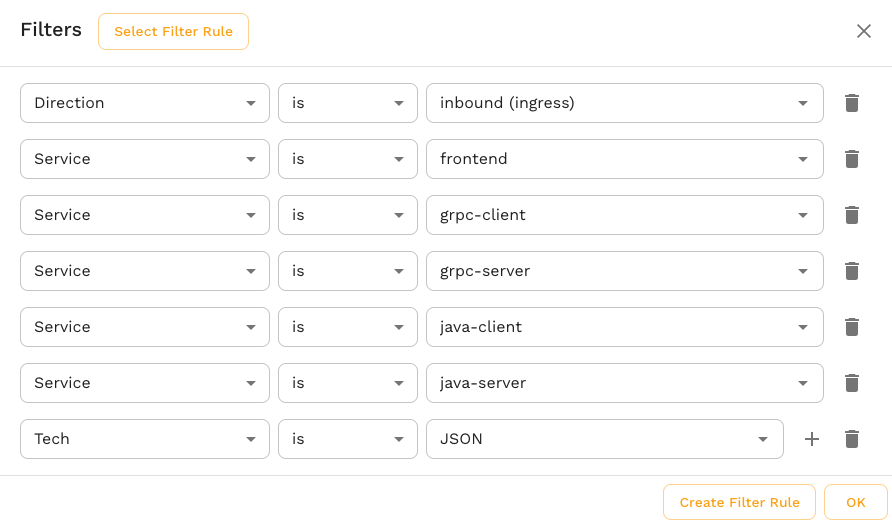
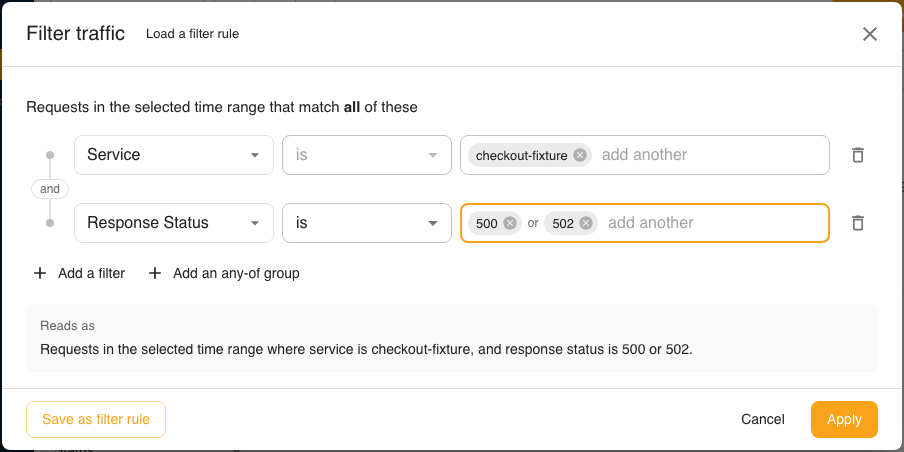
[S-14069] Describe the new traffic filter editor (#876)
The Traffic View guide gets a section on the filter editor: rows with
several values, the field picker, how rows combine, any-of groups, the
flat editor for transform chains and DLP rules, and the readback. The
filter rule guide points at Save as filter rule, and both screenshots
show the new dialog.

diff --git a/docs/guides/capture/filter.md b/docs/guides/capture/filter.md
@@ -43,7 +43,7 @@ As you use cases get more advanced you can explore more complex filters, but the
 
 Editing simple filters can be accomplished in different three ways:
 
-1. *Filter selector dialog* - To initiate this workflow click on the Search bar at the top. From there, you can add and remove filter criteria with autocomplete.
+1. *Filter editor* - Click the **Filters** bar at the top to open the editor. Click a single filter in the bar to open the editor on that filter. See [The filter editor](#filter-editor) below.
 
 ![ui_filters](./filter/filters.png)
 
@@ -55,15 +55,29 @@ Editing simple filters can be accomplished in different three ways:
 
 ![shortcuts](./filter/shortcuts.png)
 
+## The filter editor <a href="#filter-editor" id="filter-editor"></a>
+
+The filter editor reads like a sentence: "Requests in the selected time range that match all of these", followed by one row per filter. The same editor is used everywhere you pick a subset of traffic, including snapshots, reports, filter rules, transform chains and test configs.
+
+Each row is one field, a comparison and one or more values. Add a value by typing it and pressing Enter, or by picking a suggestion. Several values in one row read as "Service is orders or payments": "is" matches any of the values, and "is not" or "doesn't contain" exclude all of them. For "contains", click the word between two values to switch between "or" and "and".
+
+Click **Add a filter** to pick a field. The field list is searchable and grouped by where the value comes from: where the request ran, the request, the response, identity, replay and testing, and database. Each field offers only the comparisons it supports. For example, Service can only be matched with "is", and Full Text can't be negated.
+
+The word on the left between two rows says how they combine. On the Traffic page every row has to match, because the page also applies its time range. To match "this or that", click **Add an any-of group** and add the alternatives to the group, for example "Response Status is 500" or "Duration is more than 2000 ms". A group has its own all or any choice. Where nothing else applies, such as a filter rule, a test config scope or a chaos rule scope, the top line also lets you choose between all and any, and clicking the word between two rows switches it.
+
+Transform chains, runtime variables and DLP rules store a flat list of filters that all have to match. Their editor has no groups, and an "is" row takes one value.
+
+Below the rows, **Reads as** describes the whole filter in plain language. Rows that are still missing a value are left out until you finish them. **Cancel** discards your changes, and **Apply** applies them. Removing every filter and clicking **Apply** shows all traffic again.
+
 ## Complex Filters <a href="#complex-filters" id="complex-filters"></a>
 
-Certain complex filter criteria are permitted when creating a snapshot but not in the Speedscale UI. Generally this involves deep payload filtering like `requestBodyJson` or nested conditional statements. These filters are not editable in the UI but can be edited directly as the filter query string. You may also notice complex JSON representations of filters hidden in the UI. This is the internal Speedscale filter presentation and is not typically edited by users. If you're curious about complex filters you can learn more in this [guide](../advanced-filters.md).
+Certain complex filter criteria are permitted when creating a snapshot but not in the Speedscale UI. Generally this involves whole-document payload comparisons like `requestBodyJson`. Request and response body filters on a single key, in JSON, XML, XPath or SOAP form, are available in the filter editor as **Request Body** and **Response Body**. Edit the remaining criteria directly in the filter query string. You may also notice complex JSON representations of filters hidden in the UI. This is the internal Speedscale filter presentation and is not typically edited by users. If you're curious about complex filters you can learn more in this [guide](../advanced-filters.md).
 
 ## Saving Traffic <a href="#saving" id="saving"></a>
 
 Clicking the Save button at the top of the Traffic Viewer will cause the current view to be stored for future use. That could mean it's a section of traffic you want to replay or simply view later. Saving a snapshot does not cause additional ingest usage on your account. You should feel free to save snapshots without concern.
 
-Traffic filters can also be saved for use as forwarder filters or snapshot criteria by clicking the save button inside the filter editor dialog. The Traffic Viewer also employs URL deep links which means you can copy/paste the URL bar in your browser to share a view.
+Traffic filters can also be saved for use as forwarder filters or snapshot criteria by clicking **Save as filter rule** in the filter editor. A filter rule can compare only one field inside each group, so the button is disabled while a group mixes fields. The Traffic Viewer also employs URL deep links which means you can copy/paste the URL bar in your browser to share a view.
 
 ## Resending Requests
 

diff --git a/docs/guides/creating-filters.md b/docs/guides/creating-filters.md
@@ -24,11 +24,11 @@ Here's how you create and apply them:
 
 ![Filters](./creating-filters/select-filters.png)
 
-3. Click the **Create Filter** button in the top right of the filter section:
+3. Open the filter editor from the **Filters** bar and click **Save as filter rule** at the bottom left:
 
 ![Create Filter](./creating-filters/create-filter.png)
 
-4. Give the filter a unique ID (no spaces) - make sure to remember it.
+4. Give the filter a unique ID (no spaces), and make sure to remember it.
 
 ![Filter Name](./creating-filters/filter_name.png)
 
